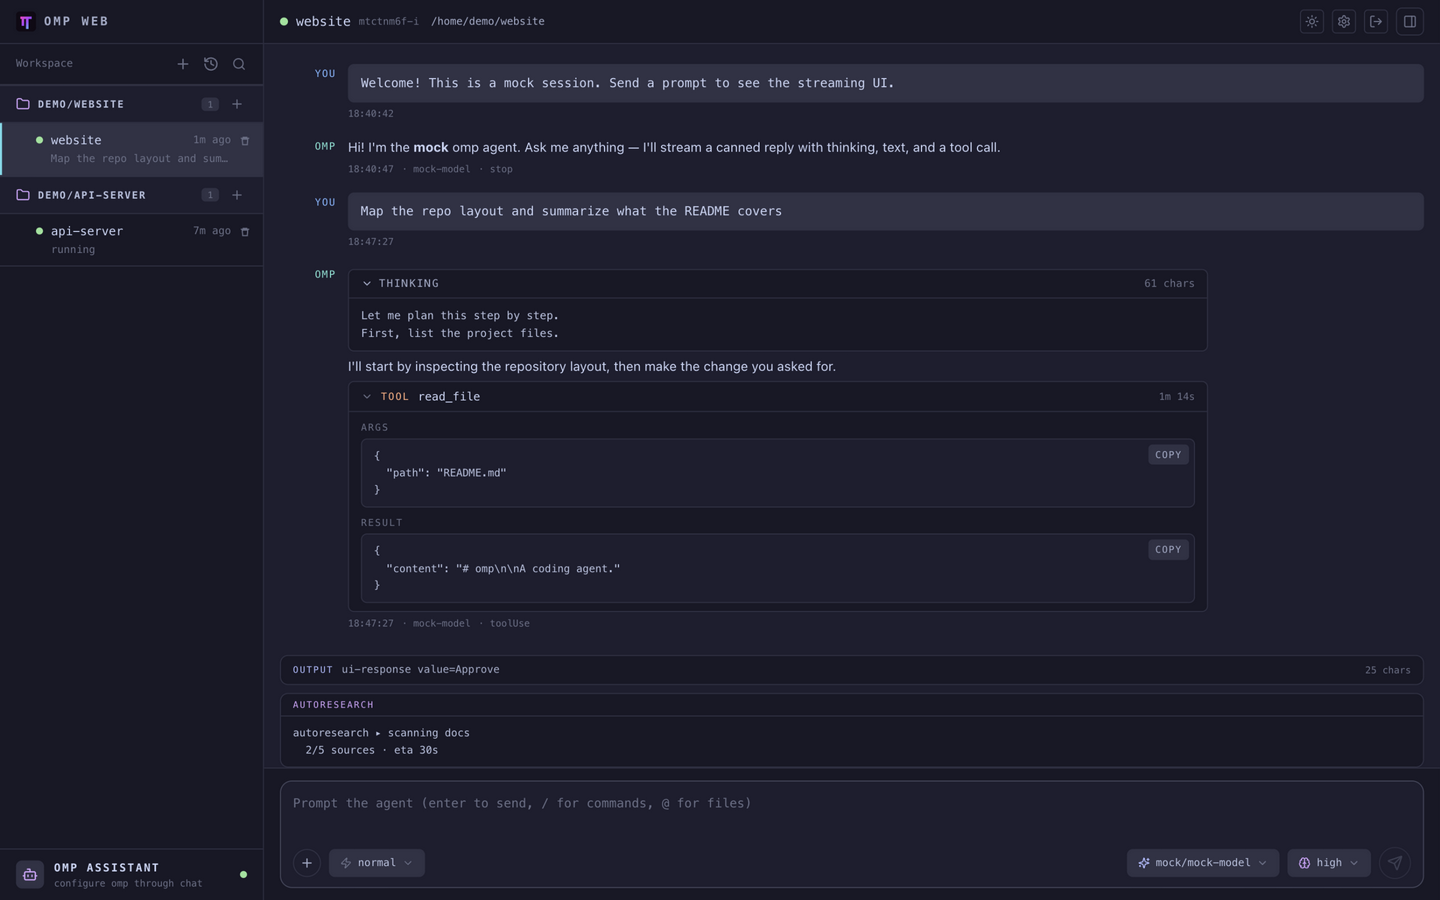
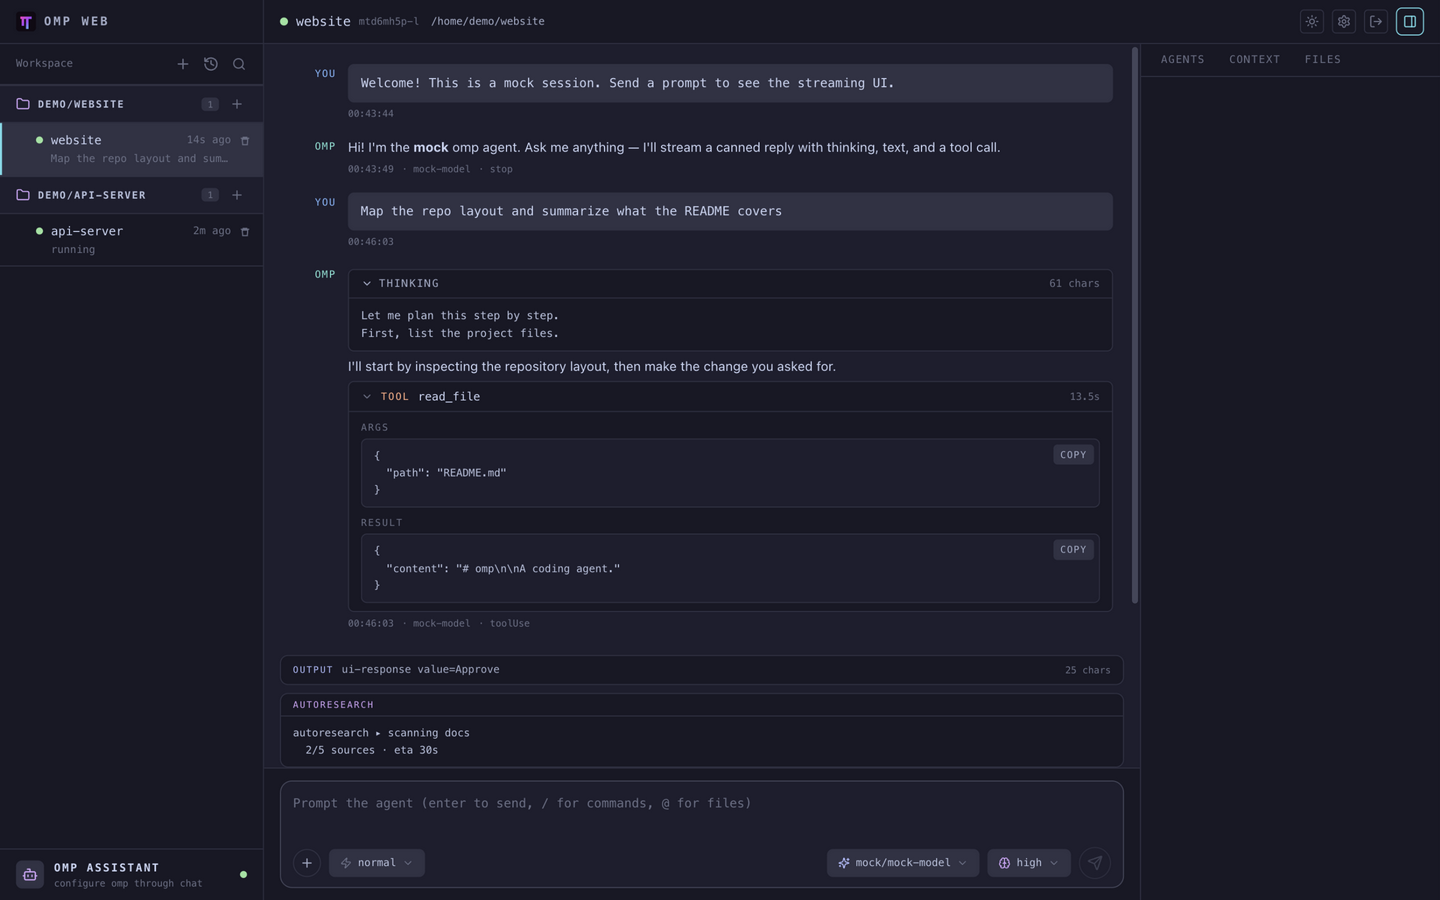
fix: mobile session header duplication, composer overflow, stuck mock state
- Session header: theme/settings/logout were rendered both in the mobile
  top bar and the session header; the copy here now only shows on lg+
  (same pattern the session list page already uses).
- Composer: the control row was all shrink-0, so on narrow screens the
  chips (model + thinking + primary button) exceeded the composer box and
  pushed the button out of it. The group is now elastic (min-w-0) and the
  model chip truncates instead; badge/thinking/button keep fixed width.
- Mock host: clear the stream timer when the canned turn finishes, so
  get_state stops reporting isStreaming forever after the first prompt
  (that locked the UI into queue/stop mode after every reload); and send
  message_end for the echoed user message, which otherwise stayed
  streaming=true and kept "agent is working…" alive.
- Regenerate chat/assistant/mobile-chat screenshots with the fixes (the
  old ones showed the broken header, overflow, and stuck state).

diff --git a/web/src/components/chat/Composer.tsx b/web/src/components/chat/Composer.tsx
@@ -506,11 +506,14 @@ export function Composer({ store, snapshot, assistant = false }: ComposerProps) 
 							</div>
 						)}
 
-						<div className="ml-auto flex shrink-0 items-center gap-2">
+						{/* min-w-0 (not shrink-0): the model chip is the elastic item —
+							    it truncates so the row still fits narrow screens instead of
+							    pushing the primary button out of the composer. */}
+						<div className="ml-auto flex min-w-0 items-center gap-2">
 							{/* Queued message count */}
 							{queuedCount > 0 ? (
 								<span
-									className="flex h-7 items-center gap-1 rounded-md border border-border bg-surface-2 px-2 font-mono text-[10px] text-fg-2"
+									className="flex h-7 shrink-0 items-center gap-1 rounded-md border border-border bg-surface-2 px-2 font-mono text-[10px] text-fg-2"
 									title={`${queuedCount} message(s) queued`}
 								>
 									<ListPlus className="h-3 w-3" />
@@ -527,10 +530,10 @@ export function Composer({ store, snapshot, assistant = false }: ComposerProps) 
 											type="button"
 											onClick={() => toggleMenu("model")}
 											title="Switch model"
-											className="flex h-7 items-center gap-1.5 rounded-md border border-border bg-surface-2 px-2.5 font-mono text-[10.5px] text-fg-1 hover:border-border-strong"
+											className="flex h-7 min-w-0 items-center gap-1.5 rounded-md border border-border bg-surface-2 px-2.5 font-mono text-[10.5px] text-fg-1 hover:border-border-strong"
 										>
 											<Sparkles className="h-3 w-3 shrink-0 text-cat-meta" />
-											<span className="max-w-[7.5rem] truncate sm:max-w-44">
+											<span className="min-w-0 max-w-[7.5rem] truncate sm:max-w-44">
 												{modelLabel ??
 													(currentModel ? `${currentModel.provider}/${currentModel.id}` : "model")}
 											</span>
@@ -562,7 +565,7 @@ export function Composer({ store, snapshot, assistant = false }: ComposerProps) 
 									</div>
 
 									{/* Thinking level */}
-									<div className="relative">
+									<div className="relative shrink-0">
 										<button
 											type="button"
 											onClick={() => toggleMenu("think")}

diff --git a/server/scripts/mock-rpc-host.ts b/server/scripts/mock-rpc-host.ts
@@ -142,7 +142,12 @@ function streamCannedTurn() {
 	];
 	let index = 0;
 	const tick = () => {
-		if (index >= steps.length) return;
+		if (index >= steps.length) {
+			// Turn finished: drop the timer so get_state reports isStreaming
+			// false again — the UI keys its queue/stop mode off that flag.
+			streamTimer = undefined;
+			return;
+		}
 		steps[index]!();
 		index++;
 		streamTimer = setTimeout(tick, 250);
@@ -253,7 +258,9 @@ function handleFrame(frame: unknown) {
 			pendingPrompt = { id, command: type };
 			write({ id, type: "response", command: type, success: true });
 			write({ type: "turn_start" });
-			// Echo the prompt back as a user message, images included.
+			// Echo the prompt back as a user message, images included. Real omp
+			// finalizes the entry with message_end; without it the UI keeps the
+			// message in streaming state forever ("agent is working…" never clears).
 			const images = Array.isArray(obj.images) ? (obj.images as unknown[]) : [];
 			const content =
 				images.length > 0
@@ -262,10 +269,9 @@ function handleFrame(frame: unknown) {
 							...images.map(image => ({ type: "image", ...(image as Record<string, unknown>) })),
 						]
 					: String(obj.message ?? "");
-			write({
-				type: "message_start",
-				message: { role: "user", content, timestamp: Date.now() },
-			});
+			const echo = { role: "user", content, timestamp: Date.now() };
+			write({ type: "message_start", message: echo });
+			write({ type: "message_end", message: echo });
 			streamCannedTurn();
 			return;
 		}

diff --git a/web/src/pages/SessionDetailPage.tsx b/web/src/pages/SessionDetailPage.tsx
@@ -135,9 +135,13 @@ export function SessionDetailPage() {
 				) : null}
 
 				<div className="ml-auto flex items-center gap-2">
-					<ThemeToggle />
-					<SettingsLink />
-					<LogoutButton />
+					{/* The mobile top bar already carries these three — a second copy
+						    here would show them twice on narrow screens. */}
+					<div className="hidden items-center gap-2 lg:flex">
+						<ThemeToggle />
+						<SettingsLink />
+						<LogoutButton />
+					</div>
 					<button
 						type="button"
 						onClick={() => setShowSide(s => !s)}
